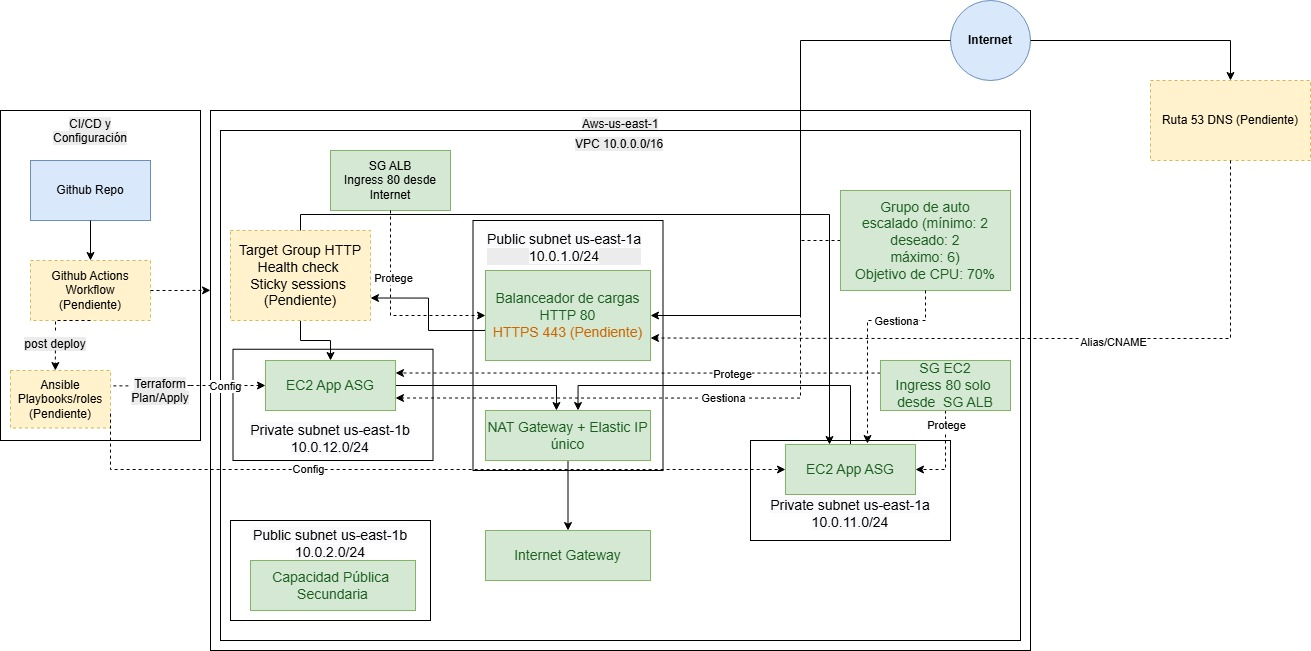
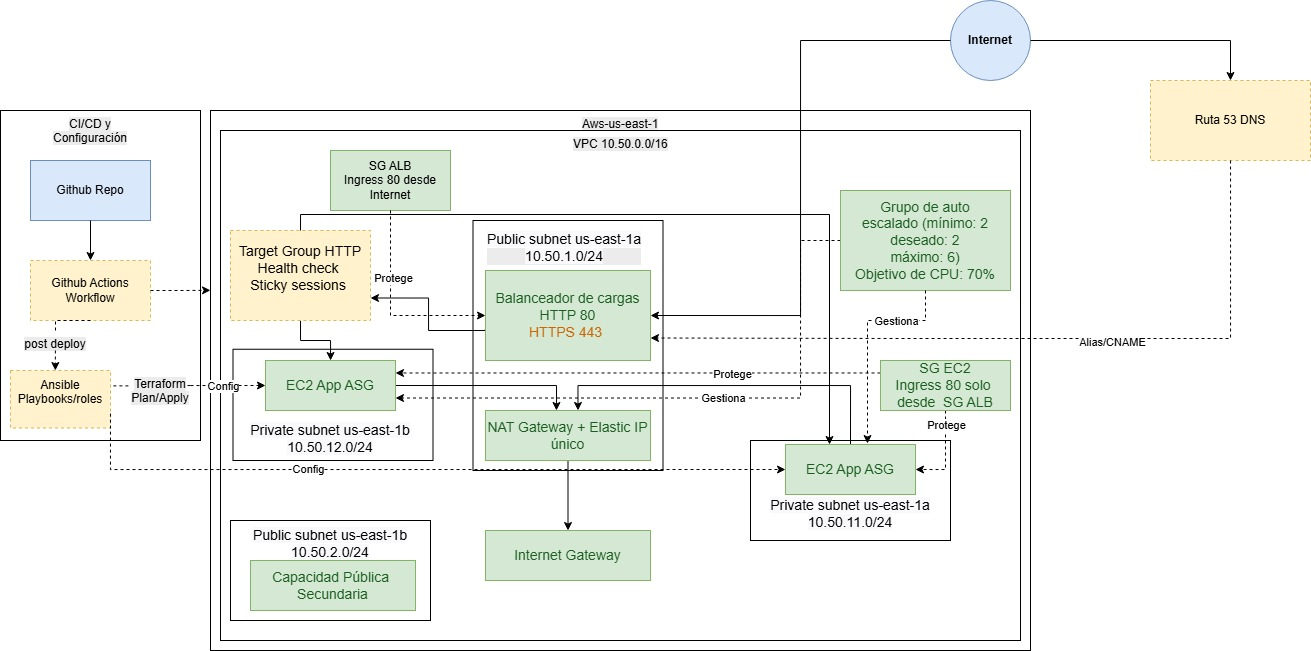
Readme.md Update. New Diagram and enviroment proof

diff --git a/README.md b/README.md
@@ -245,8 +245,10 @@ Esta evidencia demuestra redundancia minima operativa y capacidad inicial de con
 
 ### 12.5 Prueba del ALB
 
-![Prueba funcional del ALB](docs/ALB-proof.jpeg)
+![Prueba funcional del ALB](docs/ALB-proof-1.png)
 
-La URL publica del ALB responde correctamente con la pagina de Nginx (`Hola desde ...`), confirmando que el trafico llega a las instancias de backend.
+La URL publica del ALB responde correctamente con la pagina de Nginx, confirmando que el trafico llega a las instancias de backend. Si se entra desde otro dispositivo, o incluso desde incognito. Te redirige a la otra instancia disponible.
+
+![Prueba funcional del ALB 2](docs/ALB-proof-2.png)
 
 Esta evidencia valida el flujo end-to-end desde Internet hasta la capa de aplicacion.
